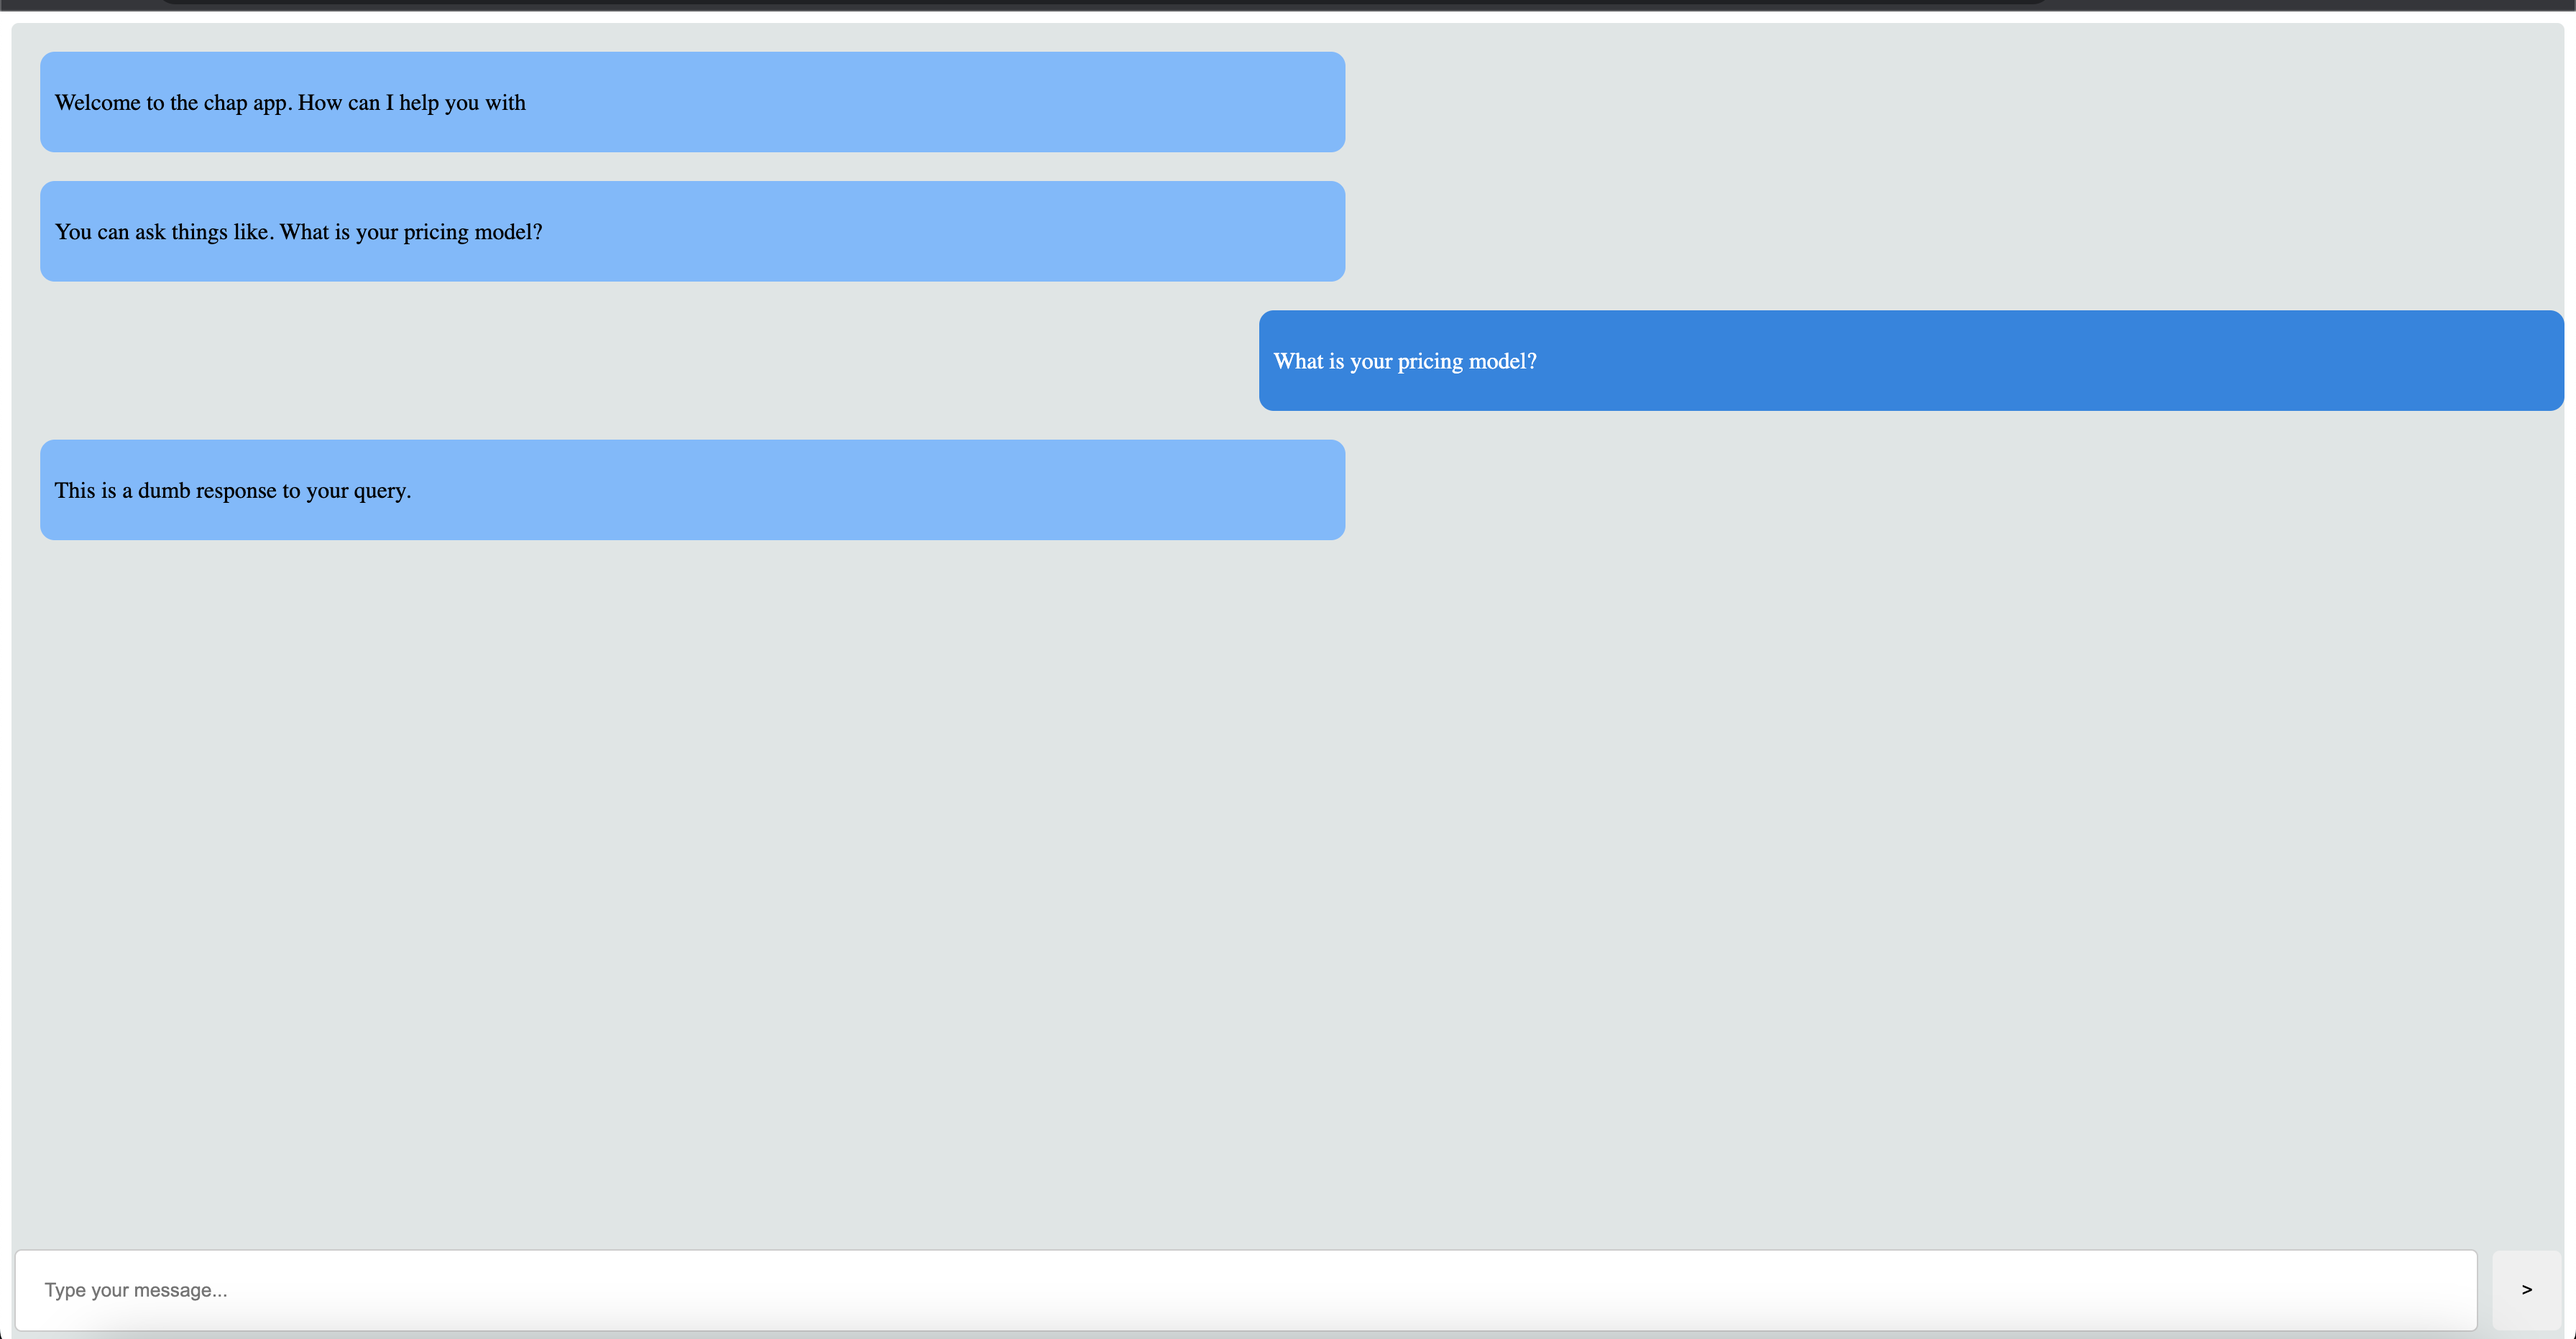
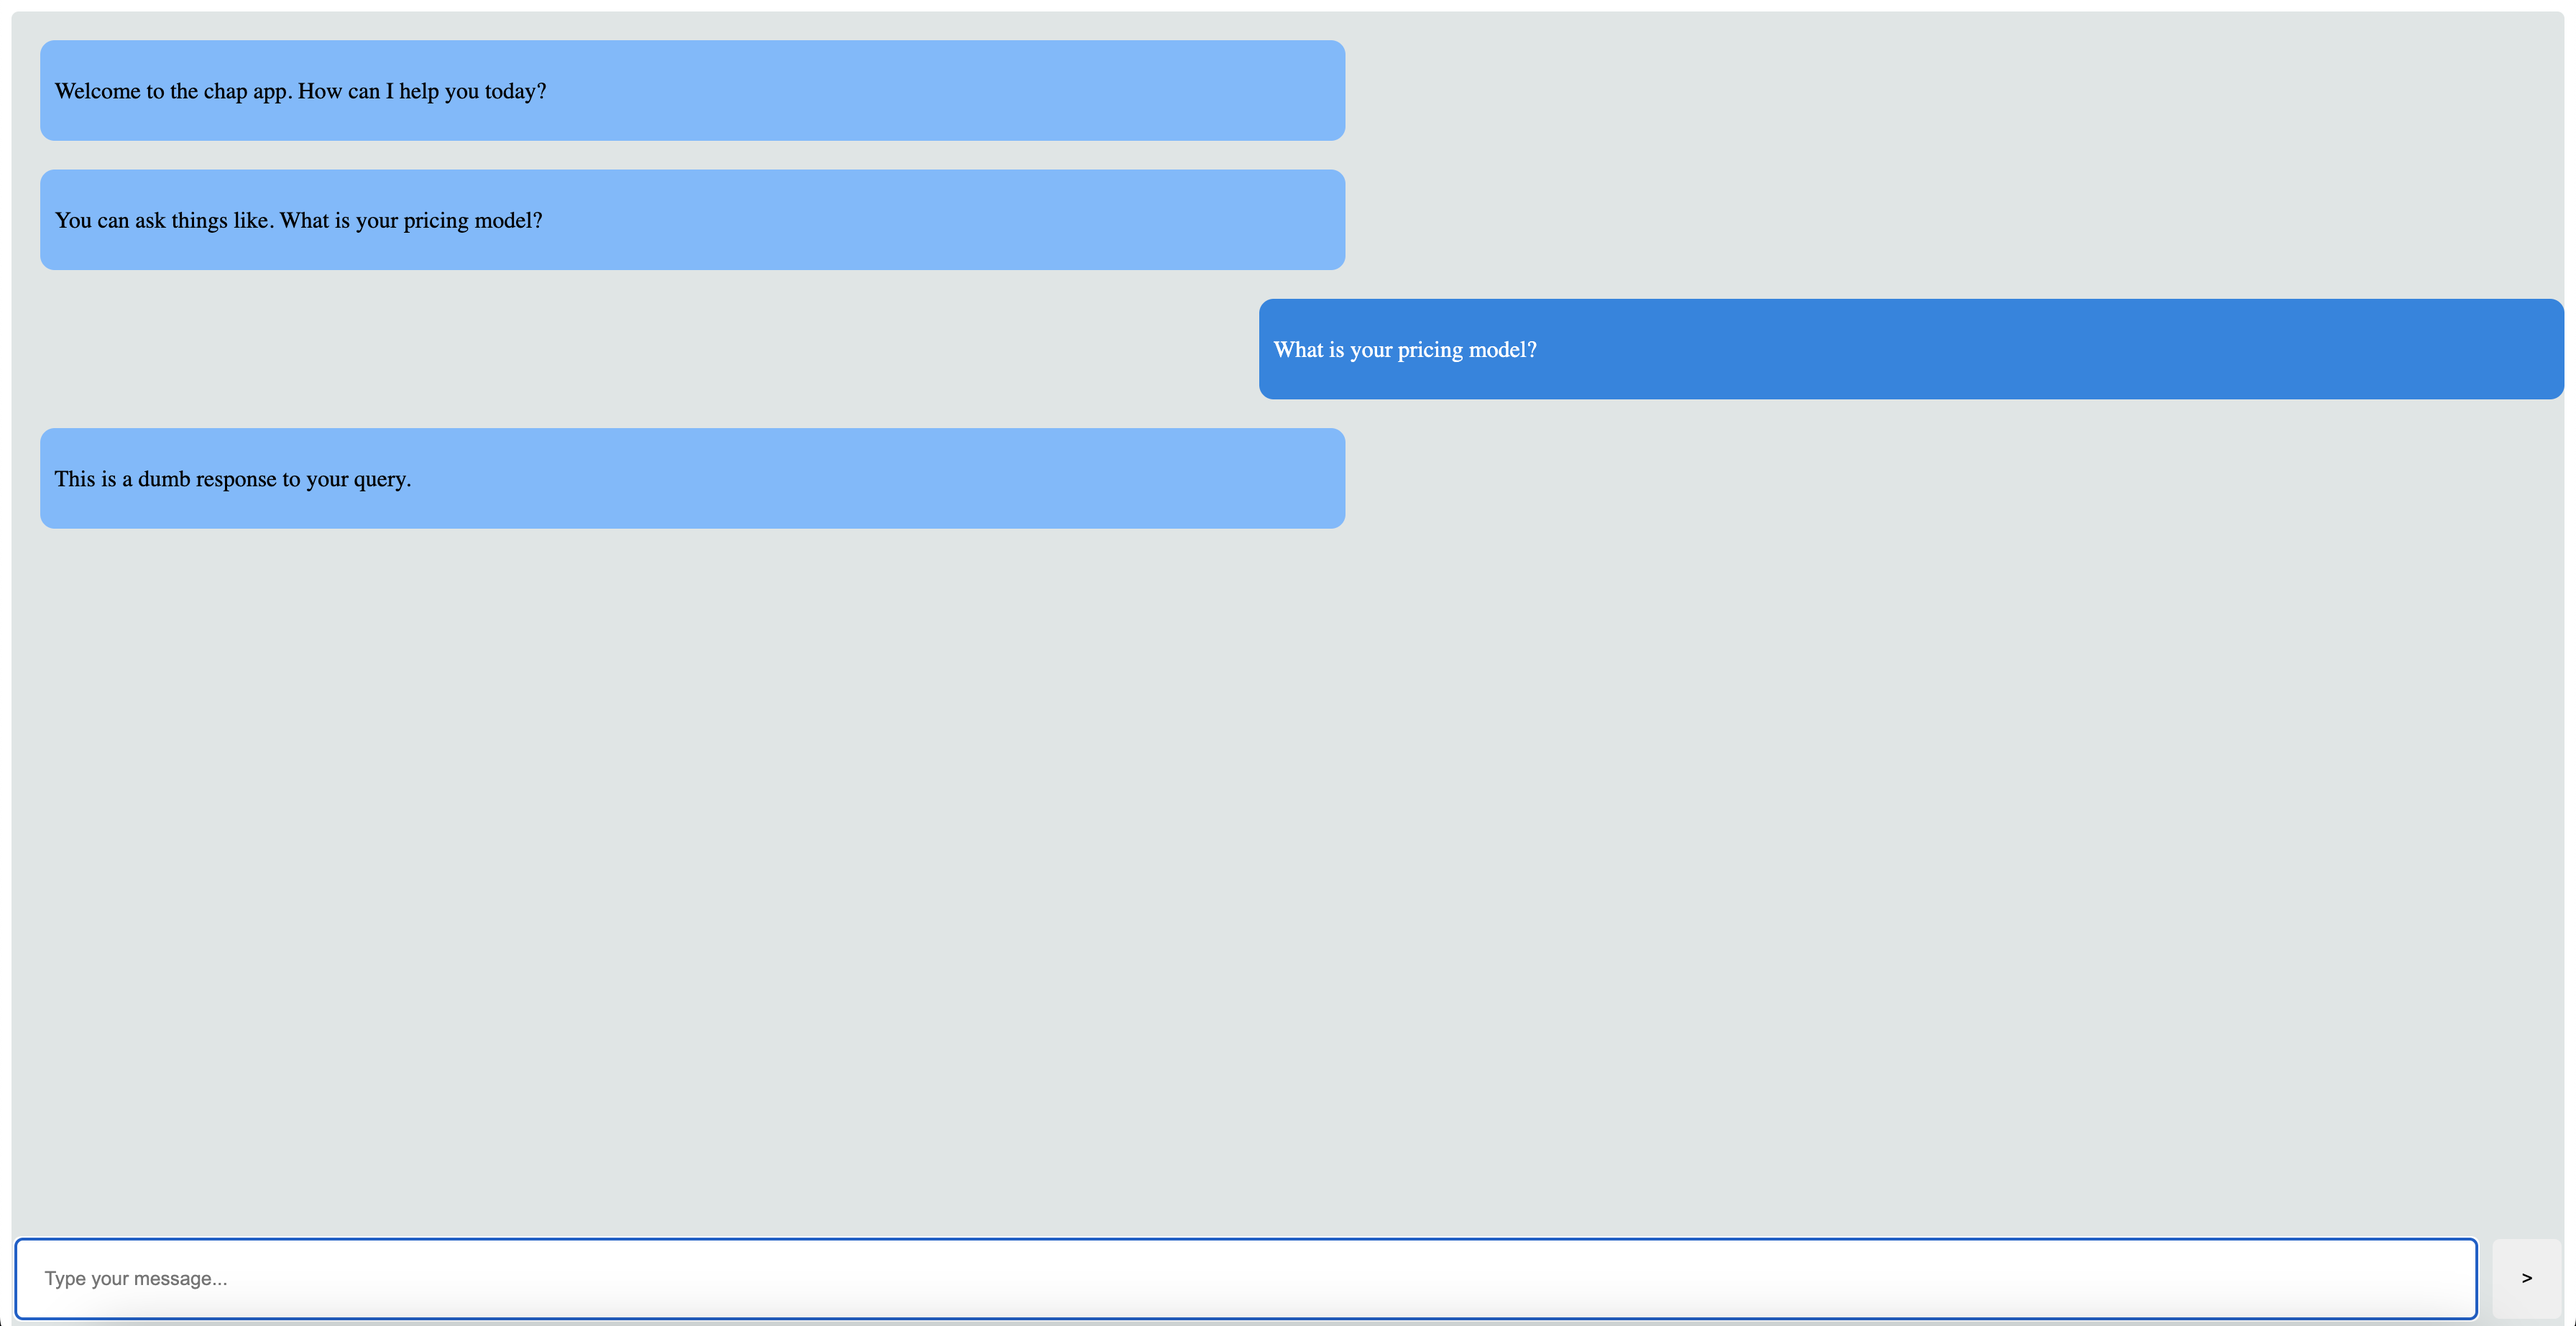
updates ui picture

Changed region(s): [[0.0, 0.0, 1.0, 0.4014], [0.0, 0.9263, 0.9688, 1.0]]

diff --git a/src/components/Chat.vue b/src/components/Chat.vue
@@ -18,7 +18,7 @@
     const defaultMessages = [{
         id: short.generate(),
         source: 'bot',
-        message: 'Welcome to the chap app. How can I help you with',
+        message: 'Welcome to the chap app. How can I help you today?',
         isGeneratingResponse: false
     },
     {
@@ -78,7 +78,6 @@
 
 <template>
     <div class="chat-container">
-        {{ userMessage }}
         <ul class="chat-list">
             <li 
                 v-for="msg in messages"
